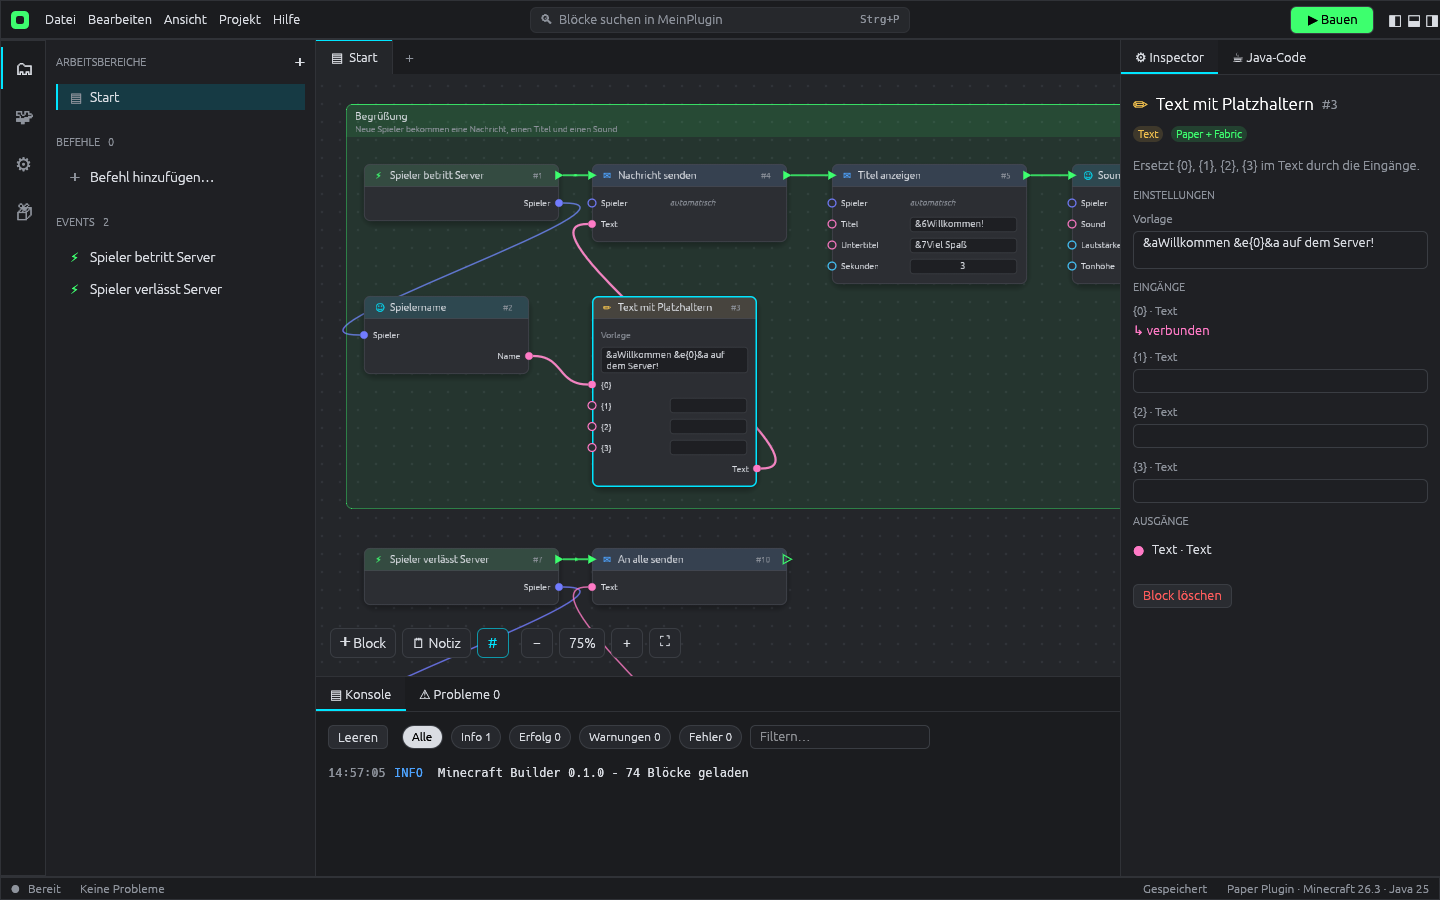
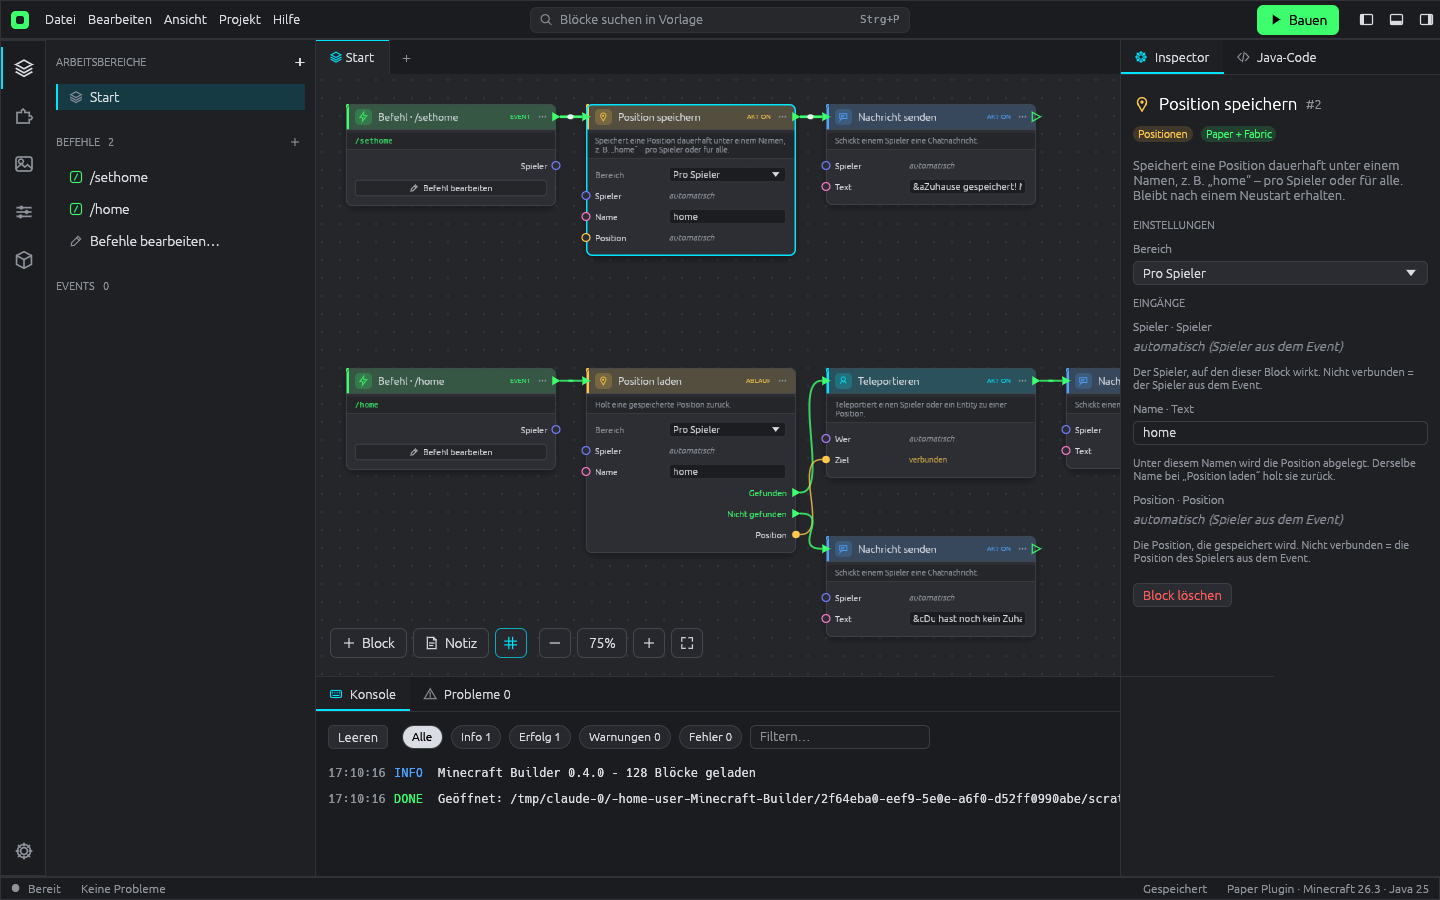
Menu editor, settings, server upload, merged resource packs and 32 new blocks
- Blocks show a short description, their kind and type tags; hovering a
  socket explains what it does and what fits into it
- Menu editor for the open menu block with a Minecraft-style chest, item
  search over all items and blocks, per-slot name, lore, amount, model and
  whether the item may be taken out
- Templates depend on the platform (11 for plugins, 9 for mods)
- Settings dialog behind a gear at the bottom left of every screen
- Location blocks, file and settings blocks, more resource pack blocks
- Several resource packs are merged into one; per-item rules (replace
  vanilla, command only, off) and an optional give command
- Upload of the built jar to a Calagopus panel server

Claude-Session: https://claude.ai/code/session_015LXv2yxr9qKbHuwPJojjSb

diff --git a/src/server.rs b/src/server.rs
@@ -457,4 +457,122 @@ mod tests {
         assert!(text.contains("\r\n\r\nDATA\r\n"));
         assert!(text.ends_with(&format!("--{boundary}--\r\n")));
     }
+
+    /// A tiny stand-in for the panel + node: answers the calls the client makes and records them.
+    fn mock_panel(requests: usize) -> (String, std::thread::JoinHandle<Vec<(String, String, Vec<u8>)>>) {
+        use std::io::{Read, Write};
+        let listener = std::net::TcpListener::bind("127.0.0.1:0").unwrap();
+        let base = format!("http://{}", listener.local_addr().unwrap());
+        let base2 = base.clone();
+        let handle = std::thread::spawn(move || {
+            let mut seen = vec![];
+            for _ in 0..requests {
+                let (mut sock, _) = listener.accept().unwrap();
+                let mut buf = Vec::new();
+                let mut tmp = [0u8; 4096];
+                let (head_end, len) = loop {
+                    let n = sock.read(&mut tmp).unwrap();
+                    buf.extend_from_slice(&tmp[..n]);
+                    if let Some(i) = buf.windows(4).position(|w| w == b"\r\n\r\n") {
+                        let head = String::from_utf8_lossy(&buf[..i]).to_lowercase();
+                        let len = head
+                            .lines()
+                            .find_map(|l| l.strip_prefix("content-length:"))
+                            .and_then(|v| v.trim().parse::<usize>().ok())
+                            .unwrap_or(0);
+                        break (i + 4, len);
+                    }
+                    assert!(n > 0);
+                };
+                while buf.len() < head_end + len {
+                    let n = sock.read(&mut tmp).unwrap();
+                    buf.extend_from_slice(&tmp[..n]);
+                }
+                let head = String::from_utf8_lossy(&buf[..head_end]).to_string();
+                let first = head.lines().next().unwrap_or("").to_string();
+                let path = first.split(' ').nth(1).unwrap_or("").to_string();
+                let auth = head
+                    .lines()
+                    .find(|l| l.to_lowercase().starts_with("authorization:"))
+                    .unwrap_or("")
+                    .to_string();
+                let body = buf[head_end..].to_vec();
+                let (status, json) = if path.starts_with("/upload/file") {
+                    (200, "{}".to_string())
+                } else if !auth.contains("Bearer c7sp_") {
+                    (401, r#"{"errors":["invalid api key"]}"#.to_string())
+                } else if path == "/api/client/account" {
+                    (200, r#"{"user":{"username":"steve"}}"#.to_string())
+                } else if path.starts_with("/api/client/servers?") {
+                    (200, r#"{"servers":{"total":1,"per_page":50,"page":1,"data":[{"uuid":"1111-2222","uuid_short":"1111","name":"Survival","description":null,"node_name":"node1"}]}}"#.to_string())
+                } else if path.contains("/files/list") {
+                    (200, r#"{"entries":{"total":2,"data":[{"name":"meinplugin-0.9.jar"},{"name":"anderes.jar"}]}}"#.to_string())
+                } else if path.ends_with("/files/upload") {
+                    (200, format!(r#"{{"url":"{base2}/upload/file?token=abc"}}"#))
+                } else {
+                    (200, "{}".to_string())
+                };
+                let resp = format!(
+                    "HTTP/1.1 {status} X\r\nContent-Type: application/json\r\nContent-Length: {}\r\nConnection: close\r\n\r\n{json}",
+                    json.len()
+                );
+                sock.write_all(resp.as_bytes()).unwrap();
+                seen.push((first, auth, body));
+            }
+            seen
+        });
+        (base, handle)
+    }
+
+    #[test]
+    fn connects_and_lists_servers() {
+        let key = format!("c7sp_{}", "k".repeat(43));
+        let (base, h) = mock_panel(2);
+        assert_eq!(check_account(&base, &key).unwrap(), "steve");
+        let servers = list_servers(&base, &key).unwrap();
+        assert_eq!(servers.len(), 1);
+        assert_eq!(servers[0].name, "Survival");
+        assert_eq!(servers[0].uuid, "1111-2222");
+        let seen = h.join().unwrap();
+        assert!(seen[0].1.ends_with(&key));
+
+        let (base, h) = mock_panel(1);
+        let err = check_account(&base, "falsch").unwrap_err();
+        assert!(err.contains("401"), "{err}");
+        h.join().unwrap();
+    }
+
+    #[test]
+    fn uploads_the_jar_and_cleans_up_old_versions() {
+        let dir = std::env::temp_dir().join(format!("mcb-deploy-{}", std::process::id()));
+        std::fs::create_dir_all(&dir).unwrap();
+        let jar = dir.join("meinplugin-1.0.0.jar");
+        std::fs::write(&jar, b"JARDATA").unwrap();
+        let (base, h) = mock_panel(6);
+        let cfg = ServerConfig {
+            id: 1,
+            url: base,
+            api_key: format!("c7sp_{}", "k".repeat(43)),
+            server_uuid: "1111-2222".into(),
+            server_name: "Survival".into(),
+            after: AfterUpload::Restart,
+            ..Default::default()
+        };
+        let log = deploy(&cfg, &jar, "plugins", "meinplugin").unwrap();
+        let seen = h.join().unwrap();
+        let lines: Vec<&str> = seen.iter().map(|s| s.0.as_str()).collect();
+        assert!(lines[0].starts_with("POST /api/client/servers/1111-2222/files/create-directory"));
+        assert!(String::from_utf8_lossy(&seen[0].2).contains("\"name\":\"plugins\""));
+        assert!(lines[1].starts_with("GET /api/client/servers/1111-2222/files/list?directory=%2Fplugins"));
+        assert!(lines[2].starts_with("POST /api/client/servers/1111-2222/files/delete"));
+        let del = String::from_utf8_lossy(&seen[2].2).to_string();
+        assert!(del.contains("meinplugin-0.9.jar") && !del.contains("anderes.jar"), "{del}");
+        assert!(lines[3].starts_with("GET /api/client/servers/1111-2222/files/upload"));
+        assert!(lines[4].starts_with("POST /upload/file?token=abc&directory=%2Fplugins"));
+        let up = String::from_utf8_lossy(&seen[4].2).to_string();
+        assert!(up.contains("filename=\"meinplugin-1.0.0.jar\"") && up.contains("JARDATA"));
+        assert!(lines[5].starts_with("POST /api/client/servers/1111-2222/power"));
+        assert!(String::from_utf8_lossy(&seen[5].2).contains("restart"));
+        assert_eq!(log.len(), 3, "{log:?}");
+    }
 }

diff --git a/src/ui/menu_editor.rs b/src/ui/menu_editor.rs
@@ -242,6 +242,7 @@ pub fn mc_text(text: &str, default: Color32, size: f32) -> egui::text::LayoutJob
 }
 
 /// Text without color codes.
+#[cfg(test)]
 pub fn strip_codes(text: &str) -> String {
     let mut out = String::new();
     let mut chars = text.chars().peekable();
@@ -1101,8 +1102,9 @@ pub fn item_picker(app: &mut App, ctx: &egui::Context) {
                 }
             }
 
-            let cell = 62.0_f32;
-            let cols = 10usize;
+            let cell_w = 102.0_f32;
+            let cell = 78.0_f32;
+            let cols = 6usize;
             let n_rows = entries.len().div_ceil(cols);
             ui.label(
                 RichText::new(format!("{} {}", entries.len(), t("Treffer", "results")))
@@ -1143,7 +1145,7 @@ pub fn item_picker(app: &mut App, ctx: &egui::Context) {
                                         entries.iter().skip(row * cols).take(cols)
                                     {
                                         let (r, resp) =
-                                            ui.allocate_exact_size(vec2(cell, cell), Sense::click());
+                                            ui.allocate_exact_size(vec2(cell_w, cell), Sense::click());
                                         let inner = r.shrink(3.0);
                                         ui.painter().rect_filled(
                                             inner,
@@ -1162,7 +1164,29 @@ pub fn item_picker(app: &mut App, ctx: &egui::Context) {
                                                 StrokeKind::Inside,
                                             );
                                         }
-                                        draw_item(app, ui, inner.shrink(9.0), item, model);
+                                        let icon = Rect::from_center_size(
+                                            pos2(inner.center().x, inner.top() + 27.0),
+                                            vec2(38.0, 38.0),
+                                        );
+                                        draw_item(app, ui, icon, item, model);
+                                        // Name below the picture.
+                                        let short = if model.is_empty() {
+                                            label.clone()
+                                        } else {
+                                            label.rsplit(':').next().unwrap_or(label).to_string()
+                                        };
+                                        let mut job = egui::text::LayoutJob::simple_singleline(
+                                            short,
+                                            FontId::proportional(10.0),
+                                            if resp.hovered() { theme::TEXT } else { theme::TEXT_WEAK },
+                                        );
+                                        job.wrap = egui::text::TextWrapping::truncate_at_width(cell_w - 14.0);
+                                        let g = ui.fonts_mut(|f| f.layout_job(job));
+                                        ui.painter().galley(
+                                            pos2(inner.center().x - g.size().x / 2.0, inner.bottom() - 19.0),
+                                            g,
+                                            theme::TEXT_WEAK,
+                                        );
                                         if resp.hovered() {
                                             ui.ctx().set_cursor_icon(egui::CursorIcon::PointingHand);
                                         }

diff --git a/src/ui/panels.rs b/src/ui/panels.rs
@@ -1479,12 +1479,18 @@ fn inspector(app: &mut App, ui: &mut Ui) {
         }
 
         let w = ui.available_width();
+        let mut open_menu = false;
         if !def.fields.is_empty() {
             section_header(ui, t("Einstellungen", "Settings"));
             ui.add_space(4.0);
             for f in &def.fields {
                 labeled(ui, tl(f.label), |ui| {
                     widgets::field_editor(ui, f, &mut node.values, w, ("insp_f", id, f.id));
+                    if matches!(f.kind, blocks::FieldKind::Menu)
+                        && icons::button(ui, Some(Icon::Chest), t("Menü bearbeiten", "Edit menu")).clicked()
+                    {
+                        open_menu = true;
+                    }
                 });
             }
         }
@@ -1528,6 +1534,12 @@ fn inspector(app: &mut App, ui: &mut Ui) {
                         }
                     },
                 );
+                ui.label(
+                    RichText::new(blocks::pin_help(def, p, false))
+                        .size(11.0)
+                        .color(theme::TEXT_WEAK),
+                );
+                ui.add_space(4.0);
             }
         }
         let outs: Vec<_> = def
@@ -1543,6 +1555,12 @@ fn inspector(app: &mut App, ui: &mut Ui) {
                     ui.label(RichText::new("●").color(p.ty.color()));
                     ui.label(format!("{} · {}", p.label.text(), tl(p.ty.label())));
                 });
+                ui.label(
+                    RichText::new(blocks::pin_help(def, p, true))
+                        .size(11.0)
+                        .color(theme::TEXT_WEAK),
+                );
+                ui.add_space(4.0);
             }
             ui.add_space(8.0);
         }
@@ -1563,6 +1581,9 @@ fn inspector(app: &mut App, ui: &mut Ui) {
                 delete = true;
             }
         });
+        if open_menu {
+            app.menu_edit = Some(crate::ui::menu_editor::MenuEdit::new(ws_idx, id));
+        }
         if open_cmds {
             let cmd = app.project.workspaces[ws_idx]
                 .node(id)

diff --git a/src/ui/settings.rs b/src/ui/settings.rs
@@ -184,6 +184,7 @@ pub fn show(app: &mut App, ctx: &egui::Context, close: &mut bool) {
                     })
                     .inner_margin(egui::Margin::symmetric(8, 16))
                     .show(ui, |ui| {
+                      ui.vertical(|ui| {
                         ui.set_width(196.0);
                         ui.set_height(528.0);
                         ui.horizontal(|ui| {
@@ -232,6 +233,7 @@ pub fn show(app: &mut App, ctx: &egui::Context, close: &mut bool) {
                                 app.settings_tab = tab;
                             }
                         }
+                      });
                     });
                 egui::Frame::new().inner_margin(20).show(ui, |ui| {
                     ui.set_width(ui.available_width());
@@ -308,20 +310,6 @@ fn general(app: &mut App, ui: &mut Ui) {
     section_header(ui, t("Java & Gradle", "Java & Gradle"));
     ui.add_space(4.0);
     crate::ui::home::tool_status(app, ui, &ctx);
-    ui.add_space(6.0);
-    ui.horizontal(|ui| {
-        let running = app
-            .setup
-            .as_ref()
-            .map(|s| s.result.is_none())
-            .unwrap_or(false);
-        if ui
-            .add_enabled(!running, egui::Button::new(t("Erneut einrichten", "Set up again")))
-            .clicked()
-        {
-            app.start_tools_setup(&ctx, false);
-        }
-    });
     ui.add_space(14.0);
     section_header(ui, t("Hilfe", "Help"));
     ui.add_space(4.0);
@@ -655,7 +643,7 @@ fn server_form(app: &mut App, ui: &mut Ui) {
         .map(|d| d.id != 0)
         .unwrap_or(false);
     ui.horizontal(|ui| {
-        if icons::icon_button(ui, Icon::ChevronRight, 22.0, "").clicked() {
+        if ui.button(t("← Zurück", "← Back")).clicked() {
             app.server_ui.reset();
         }
         ui.label(

diff --git a/src/ui/canvas.rs b/src/ui/canvas.rs
@@ -1837,10 +1837,27 @@ fn row_label(ui: &mut Ui, w: f32, text: egui::RichText) -> egui::Response {
 
 /// First sentence of a block description, shortened to fit on the block.
 fn short_desc(full: &str) -> String {
-    let first = match full.find(". ") {
-        Some(i) => &full[..=i],
-        None => full,
-    };
+    // End of the first sentence: ". " followed by a capital letter, but not after
+    // abbreviations like "z. B." or "e.g.".
+    let chars: Vec<(usize, char)> = full.char_indices().collect();
+    let mut end = full.len();
+    for w in 0..chars.len().saturating_sub(2) {
+        let (i, c) = chars[w];
+        if c != '.' || chars[w + 1].1 != ' ' {
+            continue;
+        }
+        let next = chars[w + 2].1;
+        let word_len = full[..i]
+            .chars()
+            .rev()
+            .take_while(|ch| ch.is_alphanumeric())
+            .count();
+        if word_len > 2 && (next.is_uppercase() || next == '„' || next == '“') {
+            end = i + 1;
+            break;
+        }
+    }
+    let first = &full[..end];
     let max = 96;
     if first.chars().count() > max {
         let cut: String = first.chars().take(max - 1).collect();

diff --git a/src/ui/icons.rs b/src/ui/icons.rs
@@ -60,7 +60,6 @@ pub enum Icon {
     Sliders,
     Cloud,
     Chest,
-    Key,
     Info,
 }
 
@@ -492,12 +491,6 @@ pub fn paint(painter: &Painter, rect: Rect, icon: Icon, color: Color32) {
             p.rect(3.5, 6.0, 20.5, 19.0, 1.5);
             p.line(&[(3.5, 11.0), (20.5, 11.0)]);
             p.rect(10.5, 9.5, 13.5, 13.0, 0.5);
-        }
-        Key => {
-            p.circle(8.0, 12.0, 4.0);
-            p.line(&[(12.0, 12.0), (21.0, 12.0)]);
-            p.line(&[(17.0, 12.0), (17.0, 15.5)]);
-            p.line(&[(20.5, 12.0), (20.5, 15.0)]);
         }
         Info => {
             p.circle(12.0, 12.0, 9.0);

diff --git a/src/model.rs b/src/model.rs
@@ -110,12 +110,6 @@ pub enum ItemMode {
 }
 
 impl ItemMode {
-    pub const ALL: [ItemMode; 4] = [
-        ItemMode::Auto,
-        ItemMode::Replace,
-        ItemMode::CommandOnly,
-        ItemMode::Off,
-    ];
     pub fn label(self) -> (&'static str, &'static str) {
         match self {
             ItemMode::Auto => ("Wie im Pack", "As in the pack"),

diff --git a/README.md b/README.md
@@ -14,14 +14,23 @@ Komplett in **Rust** geschrieben (egui), läuft als einzelne **`.exe` unter Wind
 - **Befehle-Fenster** (eigenes Fenster, wie bei XC Circuit): Befehle mit Name, Beschreibung, Aliasen, „Wer darf ihn benutzen“ (Alle / OP / Berechtigung), „Wer kann ihn ausführen“ (Spieler / Konsole) und **typisierten Optionen** (Wort, Text, Zahl, ganze Zahl, Spieler, Ja/Nein, Auswahl) – mit Pflicht-Schalter, Tab-Vorschlägen, automatischen Fehlermeldungen („… ist nicht online“, „… muss eine Zahl sein“), Vorschau „So sieht es in Minecraft aus“ und JSON-Ansicht. Jeder Befehl wird zum Event-Block „Befehl · /name“, dessen Ausgänge die Optionen sind.
 - **Block-Suche** wie bei XC: Filter Alle/Events/Aktionen/Werte, aufklappbare Kategorien mit Anzahl, „Zuletzt“ und „Favoriten“, Detailansicht mit Ein- und Ausgängen.
 - **Eigene Vektor-Icons** statt Emojis.
-- **Texturen & Modelle**: Ein **Resourcepack (.zip)** hinzufügen – Modelle und Texturen (mit Vorschau) werden angezeigt.
+- **Texturen & Modelle**: **Mehrere Resourcepacks (.zip)** hinzufügen – sie werden zu **einem Pack zusammengeführt** (Reihenfolge = Vorrang; Sprach-, Sound-, Atlas- und Schrift-Dateien werden gemischt statt ersetzt).
+  - **Einstellungen pro Item**: „Ersetzt Vanilla-Item“, „Nur per Befehl / Block“ oder „Aus“. Ersetzt ein Pack z. B. das Diamantschwert, kann es stattdessen als eigenes Item nur per Befehl erhältlich gemacht werden – das Vanilla-Schwert bleibt dann normal. Umgekehrt kann ein eigenes Modell ein Vanilla-Item ersetzen.
+  - **Item-Befehl**: Auf Wunsch erzeugt der Builder `/items <item> [anzahl] [spieler]` (nur OPs, mit Tab-Vorschlägen), der alle eigenen Items ausgibt.
   - **Paper**: Das Pack wird ins Plugin eingebaut; das Plugin liefert es über einen kleinen eingebauten Webserver aus und schickt es Spielern beim Betreten automatisch (Port, Pflicht, Text einstellbar).
   - **Fabric**: Texturen und Modelle werden direkt in den Mod eingebaut.
-  - Block **„Eigenes Item geben“** (Item mit eigenem Modell, Namen und Beschreibung), **„Modell in der Hand“**, **„Hält Modell?“**, **„Resourcepack senden“**. Fehlende `items/*.json`-Definitionen werden automatisch erzeugt.
+  - Blöcke: **„Eigenes Item geben“**, **„Rechtsklick mit eigenem Item“**, **„Modell des Items ändern“**, **„Eigenes Item anziehen / fallen lassen“**, **„Eigene Items zählen / abziehen“**, **„Resourcepack-Status“**, **„Resourcepack senden / entfernen“**. Fehlende `items/*.json`-Definitionen werden automatisch erzeugt.
+- **Menü-Editor**: Der Block „Menü öffnen“ hat den Knopf **„Menü bearbeiten“**. Im Editor stellst du Reihen und Titel ein und siehst die Kiste **wie in Minecraft**. Klick auf einen Platz öffnet die **Item-Suche über alle 1500 Items und Blöcke**; pro Platz gibt es Name, Beschreibung, Anzahl, eigenes Modell und den Schalter **„Kann herausgenommen werden“**. Items lassen sich per Ziehen verschieben. Texturen kommen aus deinem Resourcepack, sonst aus einem auf dem Computer installierten Minecraft (sonst Platzhalter-Bilder).
+- **Positionen**: „Position holen“ (Koordinaten + Welt), „Position speichern / laden / löschen“, „Position im Blick“, „Blockmitte“, „In Bereich?“, „Welt-Spawn“, „Bett / Respawn-Punkt“, „Oberfläche“.
+- **Dateien & Einstellungen**: „Ordner erstellen“ (in `plugins/<Name>/` bzw. `config/<id>/`), „Einstellung anlegen / lesen / ändern / neu laden“ für eigene `settings.yml`-Dateien, „Datei schreiben / lesen / löschen“, „Zeile anhängen“, „Dateien im Ordner“.
+- **Server-Upload**: Unter Einstellungen → Server die Adresse deines **Calagopus-Panels** eingeben – der Browser öffnet die Seite „API-Key erstellen“, der kopierte Key wird automatisch übernommen, dann nur noch den Server wählen. Nach jedem Build landet die `.jar` automatisch in `plugins/` bzw. `mods/` (alte Versionen werden entfernt; optional Neustart oder Konsolenbefehl danach).
+- **Einstellungen** (Zahnrad unten links, immer sichtbar): Sprache, Größe der Oberfläche, Block-Beschreibungen, Typ-Marken, Block-Nummern, Raster, Item-Bilder, Server, Updates.
+- **Erklärungen an jedem Sockel**: Mit der Maus über einen Ein- oder Ausgang (z. B. „Spieler“) gehen zeigt, was er macht, welchen Typ er hat und was hineinpasst.
+- **Vorlagen je nach Plattform**: 11 Vorlagen für Plugins, 9 für Mods – u. a. /sethome & /home, Shop-Menü, Einstellungs-Datei, Zauberstab, Spawn-Schutz.
 - **Zwei Plattformen** aus demselben Projekt:
   - **Paper-Plugin** (Minecraft 26.x und 1.21.11) – für Server, Spieler brauchen nichts zu installieren.
   - **Fabric-Mod** (Minecraft 26.x) – für Fabric-Server oder Einzelspieler.
-- **96 Blöcke** in 11 Kategorien – u. a. **Inventar-Menüs** (Shops/Teleporter mit „Klick im Menü“), **Cooldown**, **Bossbar**, **Scoreboard-Seitenleiste**, **Tab-Liste**, Fliegen erlauben, Items zählen/abziehen, Wetter, „Spieler tötet Mob“, Entfernung, Zufallsspieler, Text ersetzen. Selten gebrauchte Eingänge sind am Block unter „weitere Optionen“ eingeklappt.
+- **128 Blöcke** in 13 Kategorien – jeder Block zeigt eine Kurzbeschreibung, seinen Typ (Event/Aktion/Wert) und farbige Typ-Marken. U. a. **Inventar-Menüs** (Shops/Teleporter mit „Klick im Menü“), **Cooldown**, **Bossbar**, **Scoreboard-Seitenleiste**, **Tab-Liste**, Fliegen erlauben, Items zählen/abziehen, Wetter, „Spieler tötet Mob“, Entfernung, Zufallsspieler, Text ersetzen. Selten gebrauchte Eingänge sind am Block unter „weitere Optionen“ eingeklappt.
 - **Ein Klick auf „▶ Bauen“ (F5)** erzeugt die fertige `.jar` – inklusive Gradle-Projekt, das auch in IntelliJ/VS Code weiterbearbeitet werden kann.
 - **Live-Java-Vorschau**, **Probleme-Liste** mit Sprung zum Block, Konsole mit Filtern.
 
@@ -92,6 +101,9 @@ Für alte Grafiktreiber gibt es einen OpenGL-Build: `cargo build --release --no-
 | `src/codegen.rs` | Wandelt die Block-Graphen in ein Gradle-Projekt mit Java-Code um |
 | `src/build.rs` | Export, Gradle-Aufruf, Java-Suche, Online-Versionsabfrage |
 | `src/model.rs` | Projektformat (`.mcb`, JSON) |
+| `src/resourcepack.rs` | Resourcepacks lesen, zusammenführen, Item-Regeln anwenden |
+| `src/server.rs` | Upload auf den Server (Calagopus-Panel) |
+| `src/items.rs` | Liste aller Items und Blöcke für die Suche |
 | `src/ui/` | Oberfläche: Canvas, Seitenleisten, Inspector, Konsole, Dialoge |
 | `assets/templates/` | Java-Hilfsklassen, die in jedes Plugin/jeden Mod kommen |
 
@@ -105,4 +117,4 @@ minecraft-builder --setup-tools                     # Java & Gradle einrichten (
 minecraft-builder --lang de|en                      # Sprache setzen (nutzt der Installer)
 ```
 
-Nicht offiziell von Mojang oder Microsoft. Die Oberfläche ist von node-basierten Bot-Buildern wie XC Circuit inspiriert, der Code ist eigenständig.
+Nicht offiziell von Mojang oder Microsoft. Die Item-Liste (`assets/items.txt`) stammt aus dem offenen Projekt [minecraft-data](https://github.com/PrismarineJS/minecraft-data) (MIT-Lizenz). Die Oberfläche ist von node-basierten Bot-Buildern wie XC Circuit inspiriert, der Code ist eigenständig.
